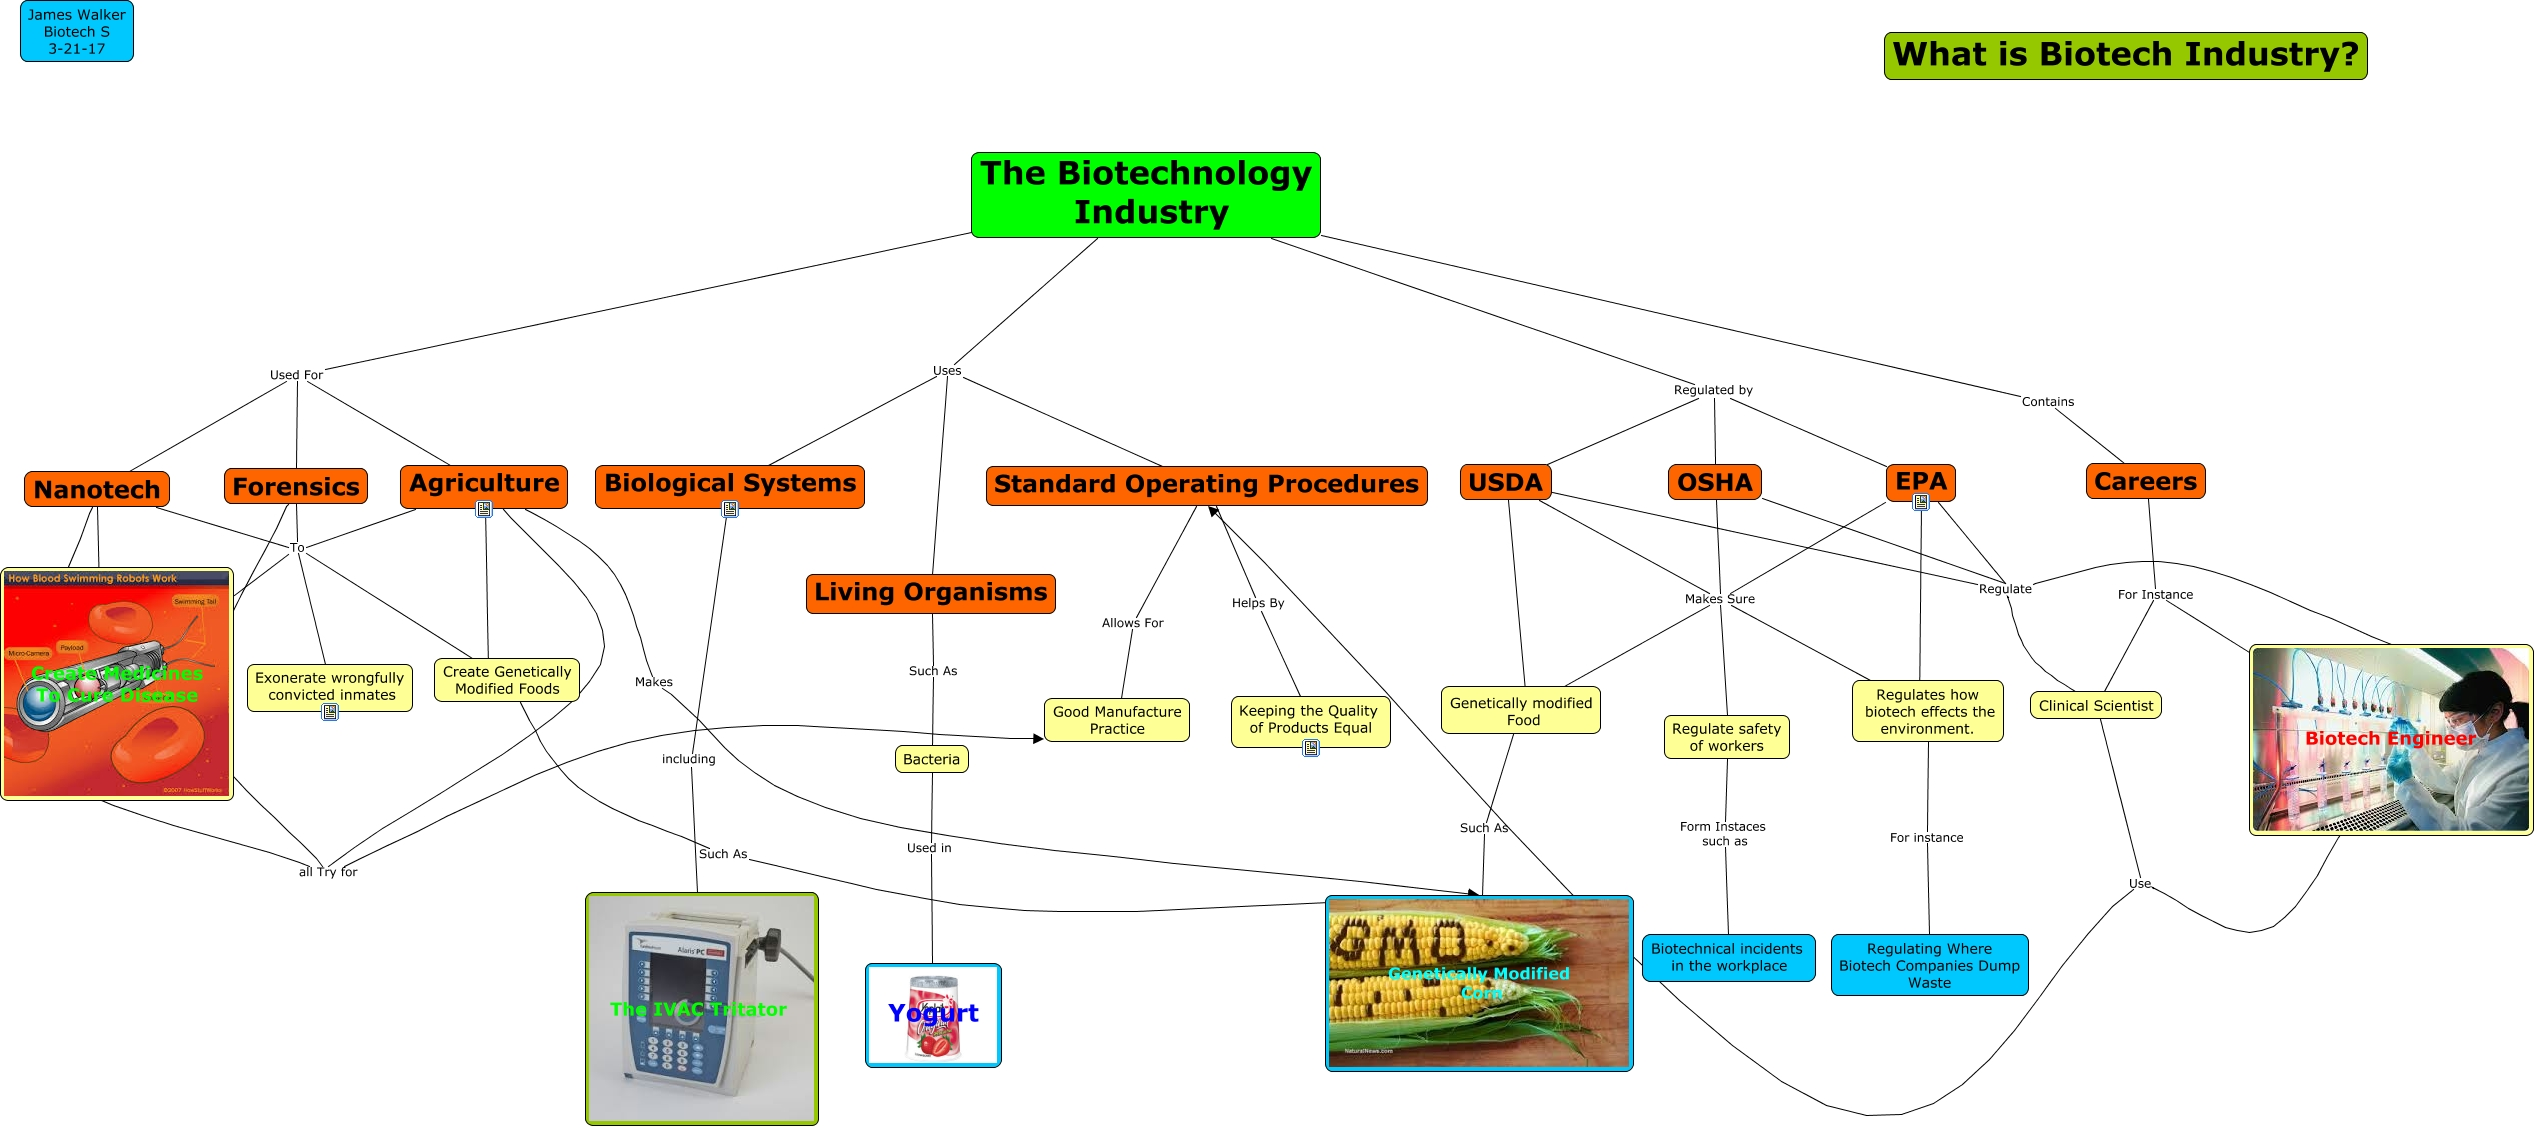
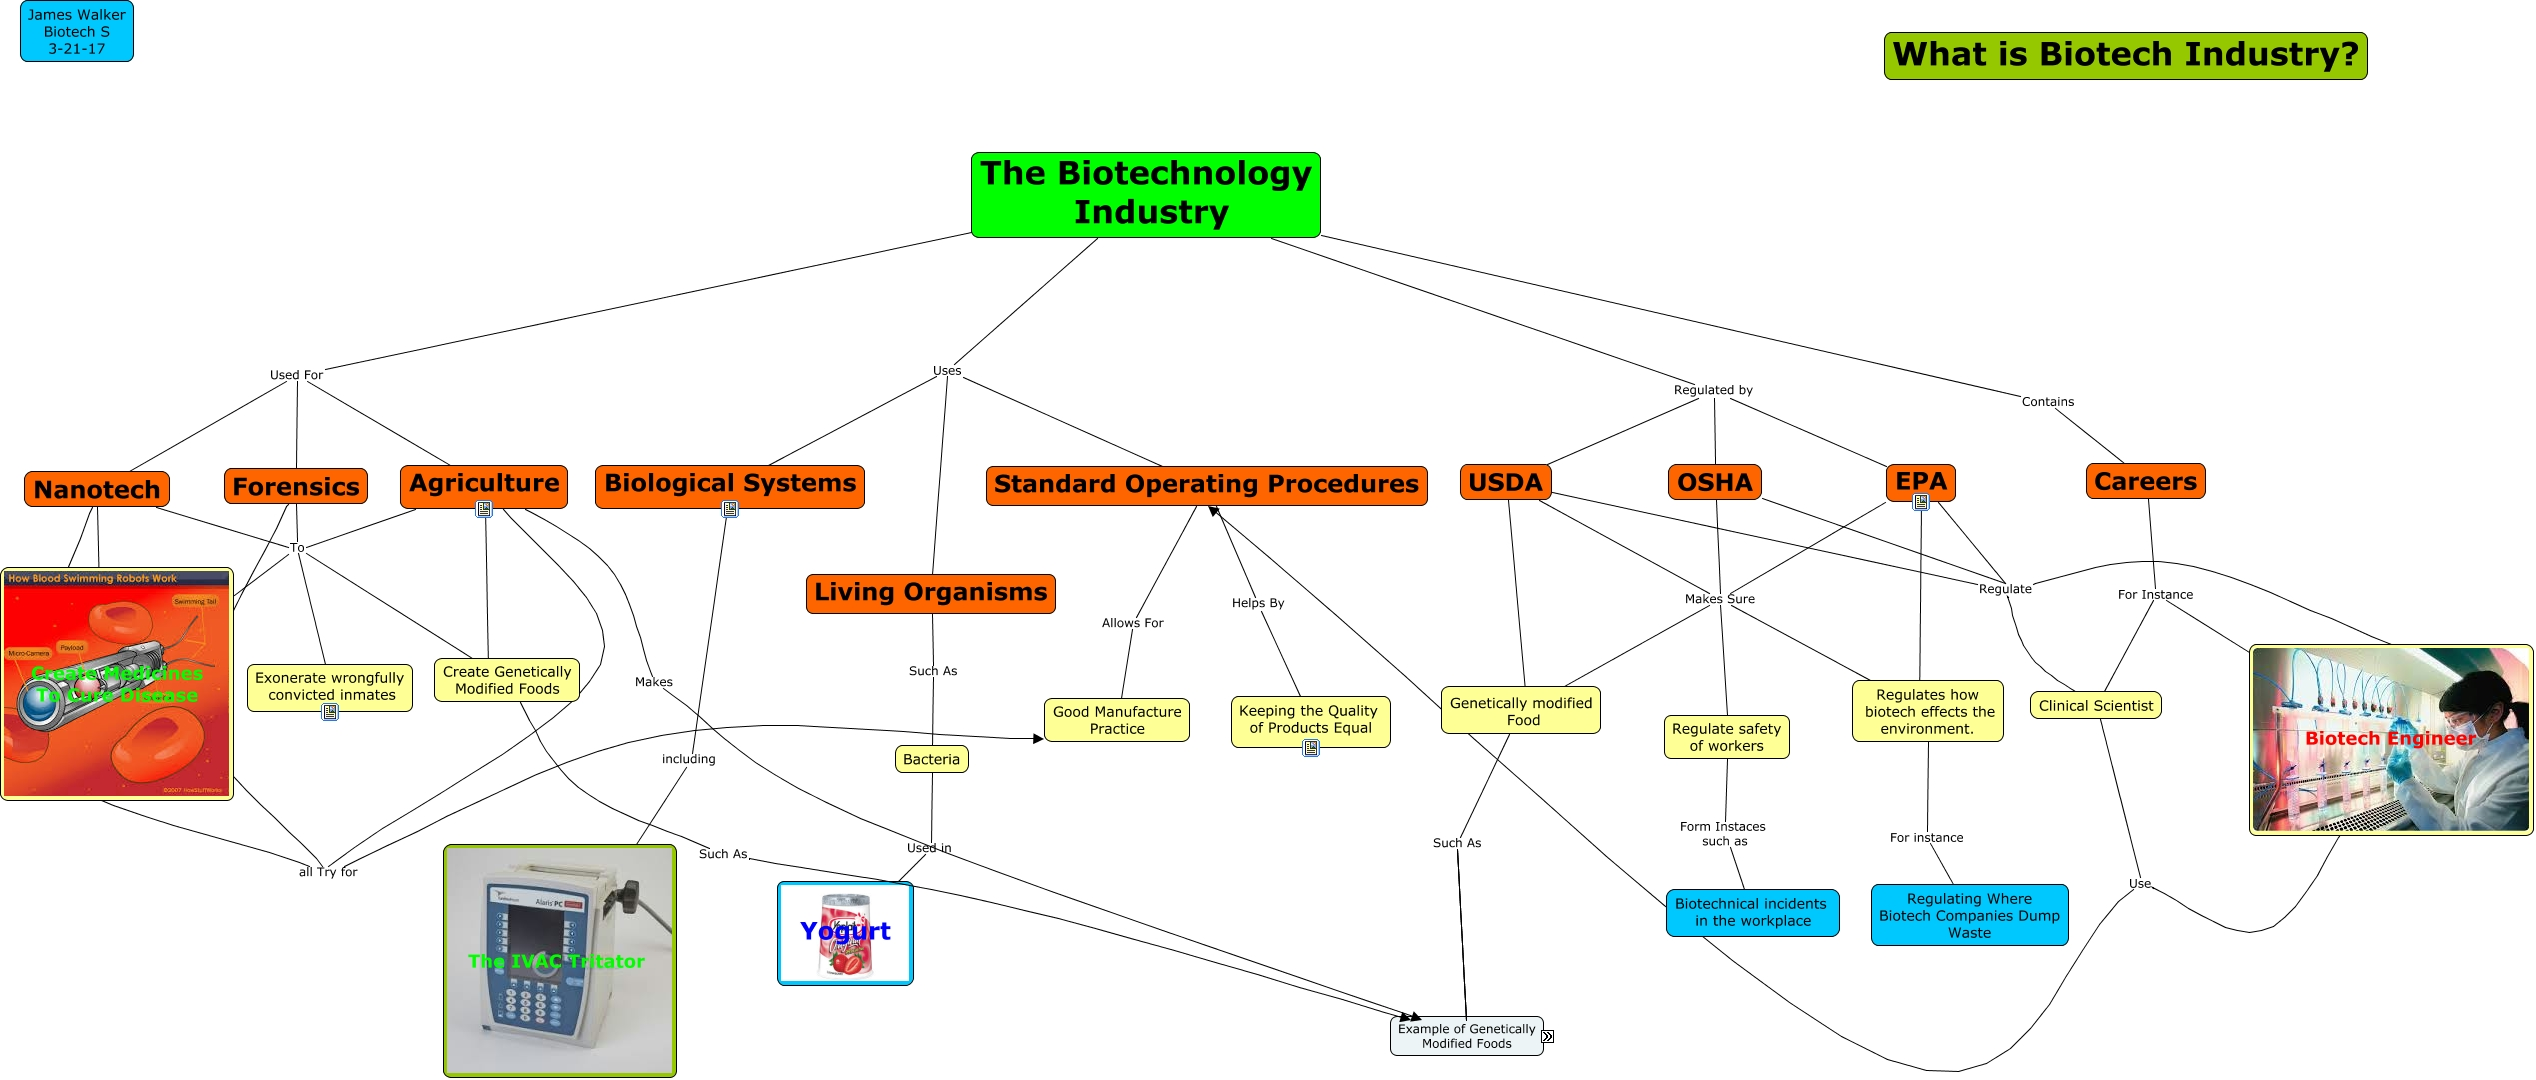
Add files via upload

diff --git a/Biotech_Cmap.html b/Biotech_Cmap.html
@@ -2,8 +2,8 @@
 <HEAD>
   <TITLE>Biotech Cmap.html</TITLE>
   <meta NAME = "GENERATOR"          CONTENT = "IHMC CmapTools vr. 4.12 ">
-  <meta NAME = "KEYWORDS"           CONTENT = "James Walker, Concept Map, cmap, CmapTools, IHMC, Biotech Cmap,  Biotechnical incidents in the workplace,  Create Medicines To Cure Disease,  Good Manufacture Practice,  Biotech Engineer,  EPA,  USDA,  Genetically modified Food,  The Biotechnology Industry,  Clinical Scientist,  Regulating Where Biotech Companies Dump Waste,  Standard Operating Procedures,  Regulates how biotech effects the environment.,  Bacteria,  Keeping the Quality of Products Equal,  Living Organisms,  Biological Systems,  OSHA,  What is Biotech Industry?,  Careers,  Forensics">
-  <meta NAME = "DESCRIPTION"        CONTENT = "This Concept Map, created with IHMC CmapTools, has information related to: Biotech Cmap, Agriculture ???? Create Genetically Modified Foods, Forensics To Exonerate wrongfully convicted inmates, OSHA Makes Sure Regulates how biotech effects the environment., Agriculture To Create Medicines To Cure Disease, Agriculture To Create Genetically Modified Foods, USDA Makes Sure Regulate safety of workers, EPA Regulate Biotech Engineer, Biological Systems including The IVAC Tritator, The Biotechnology Industry Used For Agriculture, Regulate safety of workers Form Instaces such as Biotechnical incidents in the workplace, USDA Makes Sure Genetically modified Food, USDA Regulate Biotech Engineer, Living Organisms Such As Bacteria, The Biotechnology Industry Regulated by USDA, Forensics To Create Medicines To Cure Disease, Nanotech To Create Genetically Modified Foods, The Biotechnology Industry Regulated by EPA, Bacteria Used in Yogurt, EPA Regulate Clinical Scientist, The Biotechnology Industry Regulated by OSHA">
+  <meta NAME = "KEYWORDS"           CONTENT = "James Walker, Concept Map, cmap, CmapTools, IHMC, Biotech Cmap,  What is Biotech Industry?,  Biotech Engineer,  OSHA,  The IVAC Tritator,  USDA,  Yogurt,  Genetically Modified Corn,  The Sunset Papaya,  Good Manufacture Practice,  The New Leaf Potato,  Nanotech,  Keeping the Quality of Products Equal,  Exonerate wrongfully convicted inmates,  James Walker Biotech S 3-21-17,  The Biotechnology Industry,  Genetically modified Food,  Regulates how biotech effects the environment.,  Careers,  Create Genetically Modified Foods,  Forensics">
+  <meta NAME = "DESCRIPTION"        CONTENT = "This Concept Map, created with IHMC CmapTools, has information related to: Biotech Cmap, USDA Makes Sure Regulates how biotech effects the environment., Clinical Scientist Use Standard Operating Procedures, Forensics To Create Medicines To Cure Disease, Careers For Instance Clinical Scientist, Bacteria Used in Yogurt, Forensics To Exonerate wrongfully convicted inmates, Nanotech ???? Create Medicines To Cure Disease, USDA ???? Genetically modified Food, Regulate safety of workers Form Instaces such as Biotechnical incidents in the workplace, The Biotechnology Industry Regulated by EPA, Agriculture Makes Genetically Modified Corn, The Biotechnology Industry Used For Nanotech, EPA Makes Sure Regulates how biotech effects the environment., Agriculture To Create Medicines To Cure Disease, Living Organisms Such As Bacteria, Biological Systems including The IVAC Tritator, Agriculture ???? Create Genetically Modified Foods, OSHA Regulate Biotech Engineer, The Biotechnology Industry Uses Biological Systems, OSHA Makes Sure Genetically modified Food">
   <meta NAME = "AUTHOR"             CONTENT = "IHMC CmapTools">
   <meta HTTP-EQUIV = "Content-Type" CONTENT = "text/html; charset = UTF-8">
   <script LANGUAGE="JavaScript1.2">
@@ -205,31 +205,31 @@
       </td>
     </tr>
   </table>
-This Concept Map, created with IHMC CmapTools, has information related to: Biotech Cmap, Agriculture ???? Create Genetically Modified Foods, Forensics To Exonerate wrongfully convicted inmates, OSHA Makes Sure Regulates how biotech effects the environment., Agriculture To Create Medicines To Cure Disease, Agriculture To Create Genetically Modified Foods, USDA Makes Sure Regulate safety of workers, EPA Regulate Biotech Engineer, Biological Systems including The IVAC Tritator, The Biotechnology Industry Used For Agriculture, Regulate safety of workers Form Instaces such as Biotechnical incidents in the workplace, USDA Makes Sure Genetically modified Food, USDA Regulate Biotech Engineer, Living Organisms Such As Bacteria, The Biotechnology Industry Regulated by USDA, Forensics To Create Medicines To Cure Disease, Nanotech To Create Genetically Modified Foods, The Biotechnology Industry Regulated by EPA, Bacteria Used in Yogurt, EPA Regulate Clinical Scientist, The Biotechnology Industry Regulated by OSHA
+This Concept Map, created with IHMC CmapTools, has information related to: Biotech Cmap, USDA Makes Sure Regulates how biotech effects the environment., Clinical Scientist Use Standard Operating Procedures, Forensics To Create Medicines To Cure Disease, Careers For Instance Clinical Scientist, Bacteria Used in Yogurt, Forensics To Exonerate wrongfully convicted inmates, Nanotech ???? Create Medicines To Cure Disease, USDA ???? Genetically modified Food, Regulate safety of workers Form Instaces such as Biotechnical incidents in the workplace, The Biotechnology Industry Regulated by EPA, Agriculture Makes Genetically Modified Corn, The Biotechnology Industry Used For Nanotech, EPA Makes Sure Regulates how biotech effects the environment., Agriculture To Create Medicines To Cure Disease, Living Organisms Such As Bacteria, Biological Systems including The IVAC Tritator, Agriculture ???? Create Genetically Modified Foods, OSHA Regulate Biotech Engineer, The Biotechnology Industry Uses Biological Systems, OSHA Makes Sure Genetically modified Food
 
 </noscript>
 
 <map name="Biotech Cmap.html">
   <area shape="rect"
-        href="1R500HMWYIJ1FH3VIX9ItextIhtml"
-        onClick="popUpEvt(event,'1R500HMWYIJ1FH3VIX9ItextIhtml'); return false;"
-        coords="1912,493,1930,511">
-  <area shape="rect"
         href="1R5373W7CI1TZ62GDI113ItextIhtml"
         onClick="popUpEvt(event,'1R5373W7CI1TZ62GDI113ItextIhtml'); return false;"
         coords="1302,739,1320,757">
   <area shape="rect"
-        href="1R4X76XXCI1P3BD4SI1JVItextIhtml"
-        onClick="popUpEvt(event,'1R4X76XXCI1P3BD4SI1JVItextIhtml'); return false;"
-        coords="721,500,739,518">
+        href="1R4X6Q9DHI25JDHTNI17WItextIhtml"
+        onClick="popUpEvt(event,'1R4X6Q9DHI25JDHTNI17WItextIhtml'); return false;"
+        coords="321,703,339,721">
   <area shape="rect"
         href="1R4X5QPFTI2BN1ZQGI15HItextIhtml"
         onClick="popUpEvt(event,'1R4X5QPFTI2BN1ZQGI15HItextIhtml'); return false;"
         coords="475,500,493,518">
   <area shape="rect"
-        href="1R4X6Q9DHI25JDHTNI17WItextIhtml"
-        onClick="popUpEvt(event,'1R4X6Q9DHI25JDHTNI17WItextIhtml'); return false;"
-        coords="321,703,339,721">
+        href="1R4X76XXCI1P3BD4SI1JVItextIhtml"
+        onClick="popUpEvt(event,'1R4X76XXCI1P3BD4SI1JVItextIhtml'); return false;"
+        coords="721,500,739,518">
+  <area shape="rect"
+        href="1R500HMWYIJ1FH3VIX9ItextIhtml"
+        onClick="popUpEvt(event,'1R500HMWYIJ1FH3VIX9ItextIhtml'); return false;"
+        coords="1912,493,1930,511">
 </map>
 
 <center>
@@ -274,17 +274,6 @@ This Concept Map, created with IHMC CmapTools, has information related to: Biote
 </center>
 </BODY>
 </HTML>
-<div id="1R500HMWYIJ1FH3VIX9ItextIhtml" style="POSITION: absolute; Z-INDEX: 20; VISIBILITY: hidden; left: 0; top: 0;">
-  <table border=1 cellpadding=1 cellspacing=0 bgcolor="#dddddd">
-    <tr>
-      <td nowrap><font face="Geneva, Arial" size=2>
-      <a href="https://www.epa.gov/regulation-biotechnology-under-tsca-and-fifra/overview-biotechnology-under-tsca "TITLE="">
-      Epa
-      </a>
-      </td>
-    </tr>
-  </table>
-</div>
 <div id="1R5373W7CI1TZ62GDI113ItextIhtml" style="POSITION: absolute; Z-INDEX: 20; VISIBILITY: hidden; left: 0; top: 0;">
   <table border=1 cellpadding=1 cellspacing=0 bgcolor="#dddddd">
     <tr>
@@ -296,12 +285,12 @@ This Concept Map, created with IHMC CmapTools, has information related to: Biote
     </tr>
   </table>
 </div>
-<div id="1R4X76XXCI1P3BD4SI1JVItextIhtml" style="POSITION: absolute; Z-INDEX: 20; VISIBILITY: hidden; left: 0; top: 0;">
+<div id="1R4X6Q9DHI25JDHTNI17WItextIhtml" style="POSITION: absolute; Z-INDEX: 20; VISIBILITY: hidden; left: 0; top: 0;">
   <table border=1 cellpadding=1 cellspacing=0 bgcolor="#dddddd">
     <tr>
       <td nowrap><font face="Geneva, Arial" size=2>
-      <a href="http://ieeecss.org/sites/ieeecss.org/files/documents/IoCT-Part1-05ControlBioSystems.pdf "TITLE="">
-      Biological Systems
+      <a href="http://www.forensicsciencetechnician.net/25-wrongly-convicted-felons-exonerated-by-new-forensic-evidence/ "TITLE="">
+      Forensics
       </a>
       </td>
     </tr>
@@ -318,12 +307,23 @@ This Concept Map, created with IHMC CmapTools, has information related to: Biote
     </tr>
   </table>
 </div>
-<div id="1R4X6Q9DHI25JDHTNI17WItextIhtml" style="POSITION: absolute; Z-INDEX: 20; VISIBILITY: hidden; left: 0; top: 0;">
+<div id="1R4X76XXCI1P3BD4SI1JVItextIhtml" style="POSITION: absolute; Z-INDEX: 20; VISIBILITY: hidden; left: 0; top: 0;">
   <table border=1 cellpadding=1 cellspacing=0 bgcolor="#dddddd">
     <tr>
       <td nowrap><font face="Geneva, Arial" size=2>
-      <a href="http://www.forensicsciencetechnician.net/25-wrongly-convicted-felons-exonerated-by-new-forensic-evidence/ "TITLE="">
-      Forensics
+      <a href="http://ieeecss.org/sites/ieeecss.org/files/documents/IoCT-Part1-05ControlBioSystems.pdf "TITLE="">
+      Biological Systems
+      </a>
+      </td>
+    </tr>
+  </table>
+</div>
+<div id="1R500HMWYIJ1FH3VIX9ItextIhtml" style="POSITION: absolute; Z-INDEX: 20; VISIBILITY: hidden; left: 0; top: 0;">
+  <table border=1 cellpadding=1 cellspacing=0 bgcolor="#dddddd">
+    <tr>
+      <td nowrap><font face="Geneva, Arial" size=2>
+      <a href="https://www.epa.gov/regulation-biotechnology-under-tsca-and-fifra/overview-biotechnology-under-tsca "TITLE="">
+      Epa
       </a>
       </td>
     </tr>
